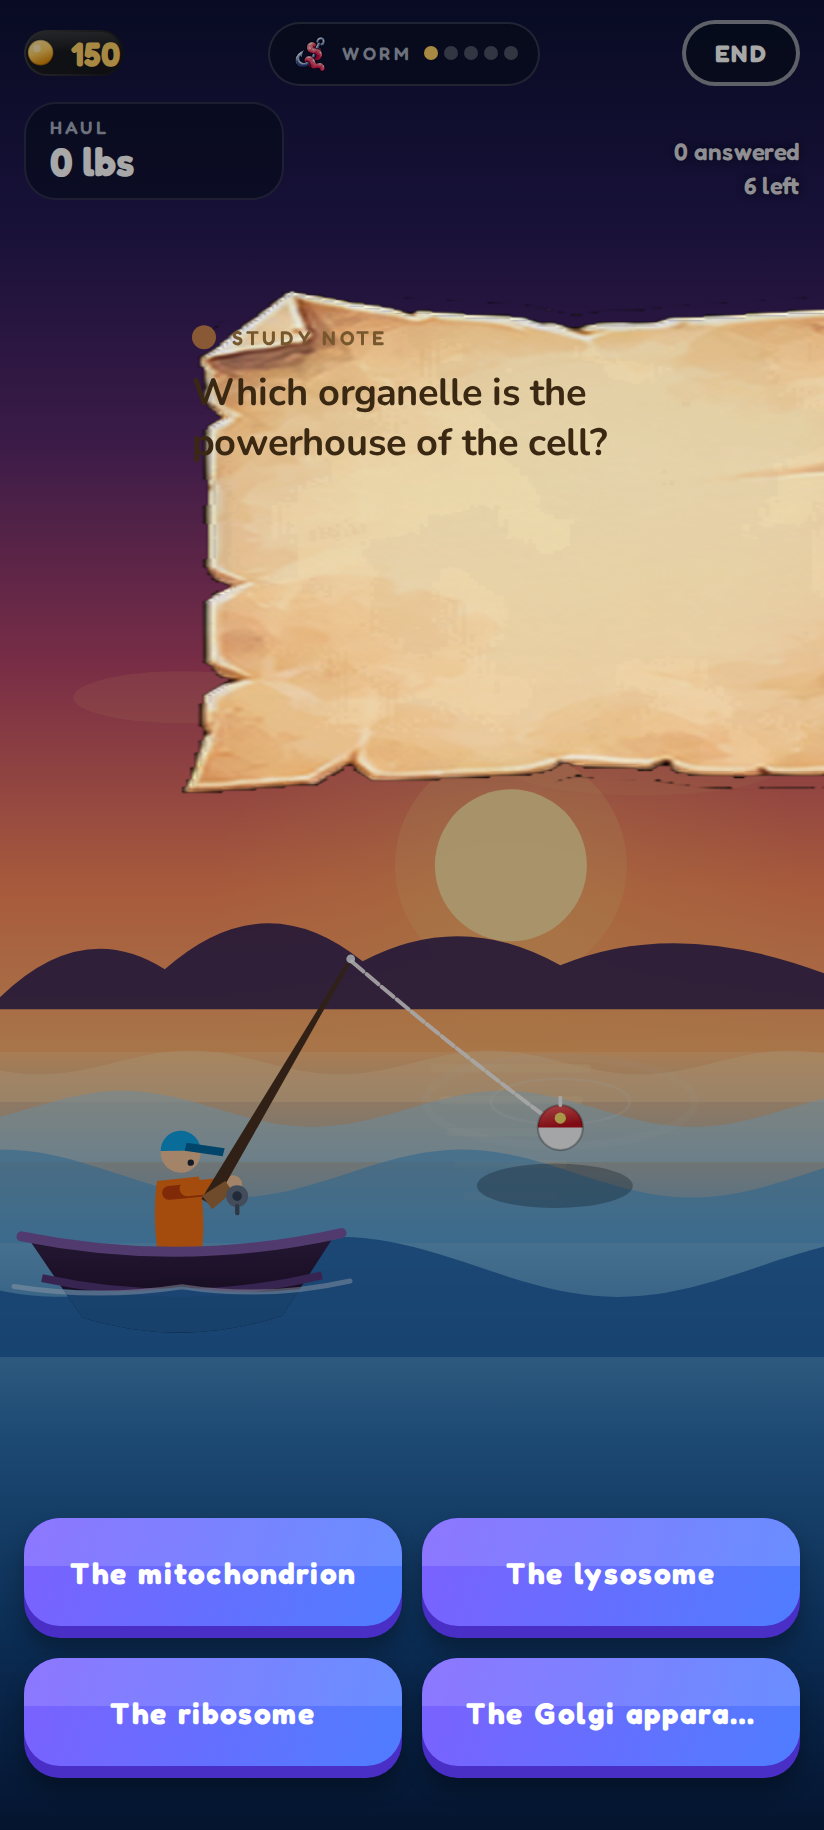
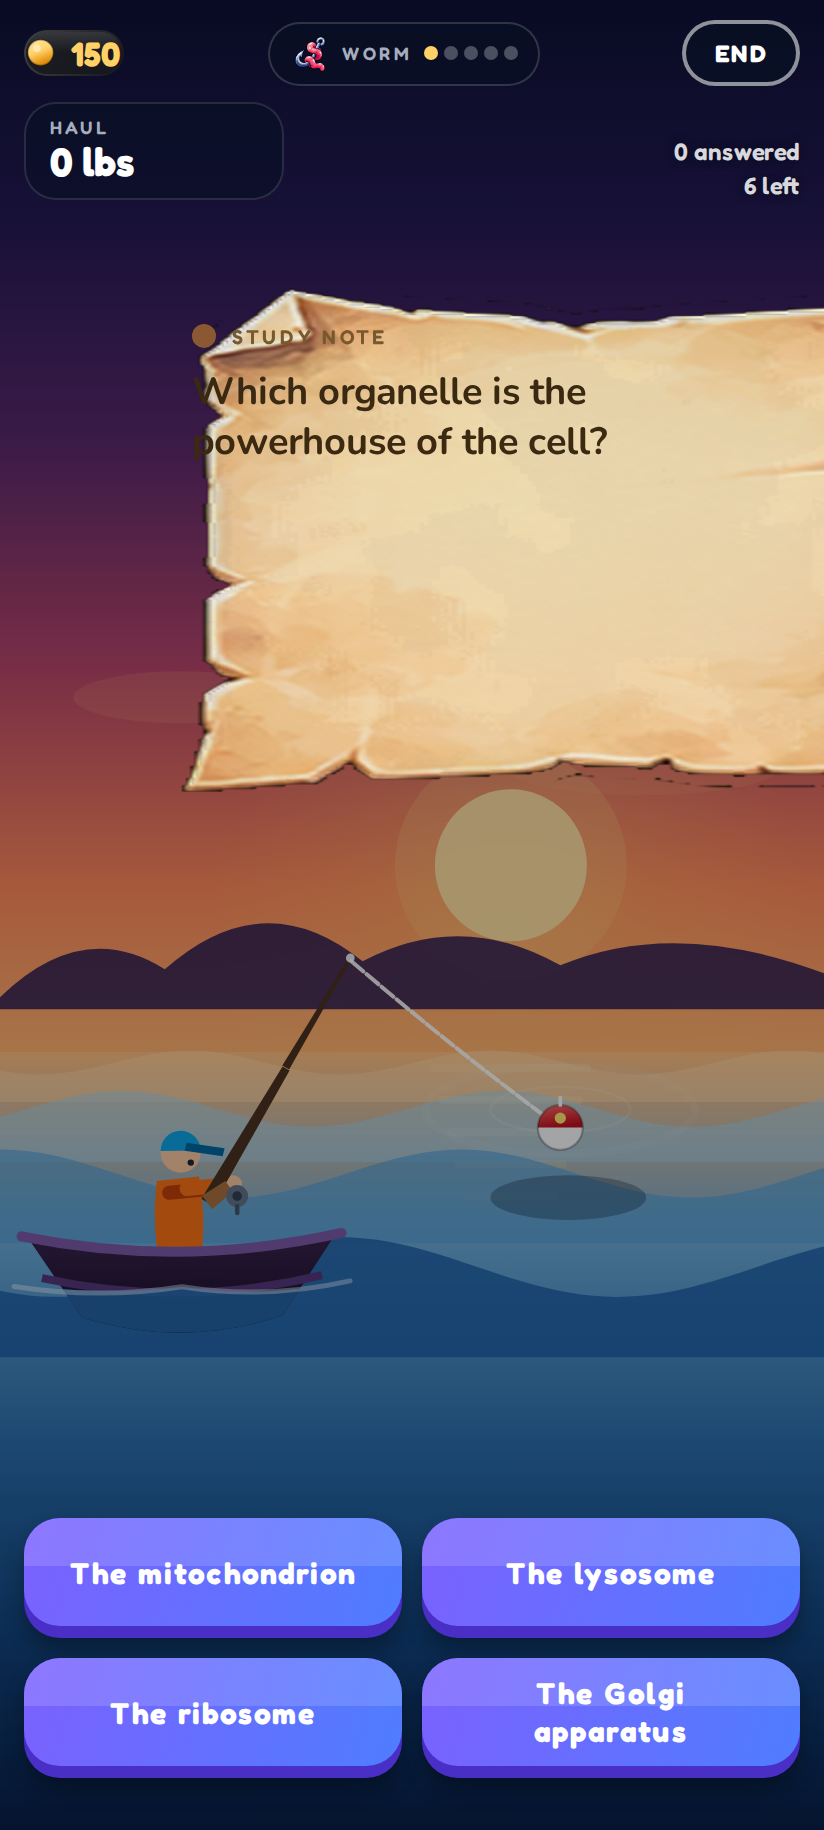
docs(fishing): the frames of the catch and the hold of the answer
The design doc describes the hold of the answer, the lead-up before the
reveal card and the frames of the catch that the web build can freeze the
scene on. The screenshots of the fishing mode and the five new frames of
the sequence (the answer that is held, the dip of the bobber, the tug of
the fish, the breach of the catch and the reveal card) are in
docs/screenshots.

diff --git a/docs/design/fishing.md b/docs/design/fishing.md
@@ -46,8 +46,10 @@ Sources: the [Fandom wiki](https://blooket.fandom.com/wiki/Fishing_Frenzy), the 
 ```
 IDLE ─tap Cast─▶ CASTING ─bobber lands─▶ WAITING ─bite 0.8–2.5s─▶ HOOKED!
 HOOKED! ─tap Reel (or auto after 600ms)─▶ QUESTION  (next FSRS card, overlaid in-scene)
-QUESTION ─correct─▶ REELING ─▶ REVEAL ─tap─▶ IDLE   (haul += lbs, effects applied)
-QUESTION ─wrong──▶ GOT_AWAY (line snaps, fish swims off, right answer shown 1.5s) ─▶ IDLE
+QUESTION ─answer─▶ ANSWERED (the answer is held on the screen)
+ANSWERED ─hold over (1.8s, or a tap anywhere)─▶ REELING (the lead-up)
+REELING ─the catch comes out of the water─▶ REVEAL ─tap─▶ IDLE
+REELING ─the line snaps (the answer was wrong)─▶ GOT_AWAY ─tap─▶ IDLE
 any ─End─▶ END_CONFIRM ─▶ PAYOUT
 ```
 - **Card selection:** each HOOKED! pulls the next card from the FSRS queue in `@study-app/core` (due first, then new, then bonus review). The *catch is rolled when the fish is hooked*, before you answer. The silhouette size and the shimmer of the shadow hint at what's on the line (a big shadow, a rarity-coloured glow), so a wrong answer on a hinted Megalodon *hurts*. That's the Blooket tension, without a timer.
@@ -56,7 +58,8 @@ any ─End─▶ END_CONFIRM ─▶ PAYOUT
 - **WAITING:** the bobber bobs, shadows drift, and the bobber twitches on nibbles. The wait is always short (≤2.5s), since waiting isn't studying.
 - **HOOKED!:** the bobber yanks under, and a giant tilted **"HOOKED!"** banner slams in with a screen shake and a heavy haptic. The shadow on the line shows its size. Tap **Reel** (auto-advances after 600ms if Alex prefers; it's a setting).
 - **QUESTION:** the in-scene answer gate (§4). The line stays taut and the fish thrashes.
-- **REELING (~900ms):** the reel spins, the line tightens, the fish is dragged up with spray, and bigger catches thrash harder.
+- **ANSWERED (the hold, 1.8s):** the answer the player picked and the right answer keep their colours (green and red, §4) and the answers are switched off, so the card can be reread. A tap anywhere ends the hold early.
+- **REELING (the lead-up, 2.5s):** the bobber dips and jerks on the water with ripples and small splashes, the fish pulls on the line (the rod bends, the line goes tight and the bobber comes closer to the boat) and the catch comes out of the water with a big splash. A junk catch and a wrong answer get the short version (1s): the line snaps and the shadow swims off.
 - **REVEAL:** the catch flips out of the water onto a reveal card (§5).
 - **GOT_AWAY:** a *twang*, the line goes slack, the shadow darts off, and the bubble reads **"It got away!"** with the right answer highlighted. You lose that catch, the streak resets, and the SRS grade is Again. That's the only penalty.
 
@@ -67,9 +70,12 @@ any ─End─▶ END_CONFIRM ─▶ PAYOUT
 - Answers are **2 to 4 wooden lure tags** hanging from a rope at the bottom (a 2×2 grid when there are four), each 56dp+ tall. The wrong answers are the ones the author wrote for that very question: they never come from the other cards of the deck.
 - A card **without wrong answers** is not a multiple choice question: the note shows the question alone, the player taps **"Show the answer"** and then grades itself (**"Got it"** = Good, **"Missed it"** = Again).
 - Feedback: the tag presses in, then turns green with ✓ or red with a shake. Self-graded cards use the same gate with "Tap to flip" and ✓/✗ tags.
+- **The hold (1.8s):** after the answer, the tag the player picked and the right answer keep their colours (the right one green with ✓, the wrong one red with ✗) and the answers are switched off, so the player can reread the question and the answers. A tap anywhere ends the hold early.
+- The answers are never cut off: a long answer wraps on two lines.
 - There is no visible timer. Response time is tracked silently for Hard/Good/Easy, as in the SPEC.
 
 ## 5. Reveal card
+- The card never comes out of nowhere: the **lead-up** comes first (§3): the bobber dips and jerks, the fish pulls on the line and the catch comes out of the water with a big splash. A critter (or a heavy catch) gets the full 2.5s, a junk catch and a wrong answer get 1s.
 - It springs in (scale 0.6→1.05→1) over a burst in the rarity colour.
 - It shows the art, name, **rarity ribbon** using Blooket-style tier names (below) and **weight** counting up. Silly catches get a one-line joke caption ("Smells like detention"), critters show their vibe.
 - **No "NEW!" stamp:** a catch never grants a critter to the collection, so there is nothing to stamp. The stamp stays on the pack opening, where the critter really is granted.
@@ -178,12 +184,14 @@ Every **heavy catch** of the session pays **15 tokens** on top of the payout of 
 
 ### 11a. The lake scene as it is drawn today (`LakeScene.tsx`)
 The scene is **drawn with `react-native-svg`**, not assembled from PNGs, so the boat, the fisher and the rod stay crisp on every screen:
-- **Layers, back to front:** sky gradient → sun → far shore and hills → water gradient → glitter of the sun → four wave bands (the parallax) → the boat with the fisher and the rod → the frenzy tint → the shadow of the catch → the ripples → the fishing line → the splash → the bobber → the catch → the overlays (HUD, note, reveal card).
+- **Layers, back to front:** sky gradient → sun → far shore and hills → water gradient → glitter of the sun → four wave bands (the parallax) → the big splash of the catch → the boat with the fisher and the rod → the frenzy tint → the shadow of the catch → the ripples → the fishing line → the splash → the bobber → the catch → the overlays (HUD, note, reveal card).
 - **The boat floats in the lake:** the hull is drawn in two halves (the part above the water and the part below it, tinted like the water) and it rocks and bobs with the phase of the waves, so the boat never "sits on" the water.
 - **The line sags:** it is a quadratic curve from the tip of the rod to the bobber; the sag grows with the length of the line and it goes tight when a fish is hooked. The line is drawn piece by piece (each piece is turned along the curve) so it follows the bobber on the UI thread.
-- **The bobber floats on the water** at a distance (on the water line at its own x), it bobs with the waves and it makes rings. During a cast it flies over the water on a parabola, from the tip of the rod to the spot where it lands.
+- **The bobber floats on the water** at a distance (on the water line at its own x), it bobs with the waves and it makes rings. During a cast it flies over the water on a parabola, from the tip of the rod to the spot where it lands. **It stays in the water during the lead-up**: it dips under it (and fades a little), it is pulled towards the boat and it never leaves the lake.
+- **The rod bends:** the rod is drawn in two halves and the tip turns on its joint while the fish pulls on the line, so the tip of the rod (and the line that hangs from it) follows the pull.
+- **The lead-up before the reveal card** (`REELING`): the bobber dips and jerks with ripples and small splashes, the fish pulls on the line (the rod bends, the line goes tight, the bobber comes closer to the boat) and the catch leaps out of the water with a big splash. A wrong answer gets the short version: the line snaps, the rod springs back and the shadow swims off.
 - **Reduce Motion:** the waves, the bobbing, the rocking and the flight of the cast stop; the scene stays in one pose.
-- **Demo states of the web build:** `/fishing` (idle), `/fishing?demo=cast` (the bobber in the air), `?demo=question`, `?demo=reveal` and `?demo=payout`. `scripts/screenshots.mjs` photographs them.
+- **Demo states of the web build:** `/fishing` (idle), `/fishing?demo=cast` (the bobber in the air), `?demo=question`, `?demo=reveal` and `?demo=payout`. The frames of the catch have a demo of their own: `?demo=seq-highlight` (the answer that is held on the screen), `?demo=seq-dip`, `?demo=seq-tug`, `?demo=seq-breach` and `?demo=seq-reveal`. `scripts/screenshots.mjs` photographs them (`docs/screenshots/fishing-seq-*.png`).
 
 ## 12. Sound and haptics
 - **Audio:** `expo-audio`. Short SFX are preloaded: cast whoosh, plop, nibble blip, bite splash, reel ratchet (loop), line snap twang, correct ding, wrong thunk, reveal fanfare (3 tiers), coin roll, and an ambient lake loop (water lap and birds, low volume). Mute toggle, ducked when other audio is playing.
@@ -257,7 +265,9 @@ Multiplayer, real distractions against other players, timers, an aquarium displa
 ## 15. Acceptance checklist
 - [ ] The scene is always visible and runs smoothly on a mid-range Android phone. It works with the placeholder fallback art.
 - [ ] The question shows as an in-scene note. There is never a full-screen quiz card.
-- [ ] The full loop works: cast → wait → HOOKED! → answer → reel + reveal, or got away → cast again.
+- [ ] The full loop works: cast → wait → HOOKED! → answer → the answer is held on the screen → reel + reveal, or got away → cast again.
+- [ ] After an answer, the answer the player picked and the right answer keep their colours for ~1.8s, the answers are switched off during the hold and a tap anywhere ends it early.
+- [ ] The lead-up before the reveal card plays on the water: the bobber dips and jerks, the rod bends, the bobber is pulled towards the boat and the catch comes out of the water with a big splash (2.5s for a critter or a heavy catch, 1s for junk and for a wrong answer).
 - [ ] The haul counter rolls up, and the End confirmation leads to the server payout screen.
 - [ ] The HOOKED! banner, GOT_AWAY and the in-session lure ranks 1–5 work. Frenzy lasts 5 catches. Powerups, critter catches and the Pack Ticket caps all work.
 - [ ] A critter catch is a catch: it counts for the haul and it is shown on the reveal and on the payout screen, but it **never** enters the collection. Only a pack grants a critter (a duplicate only bumps the count there).
